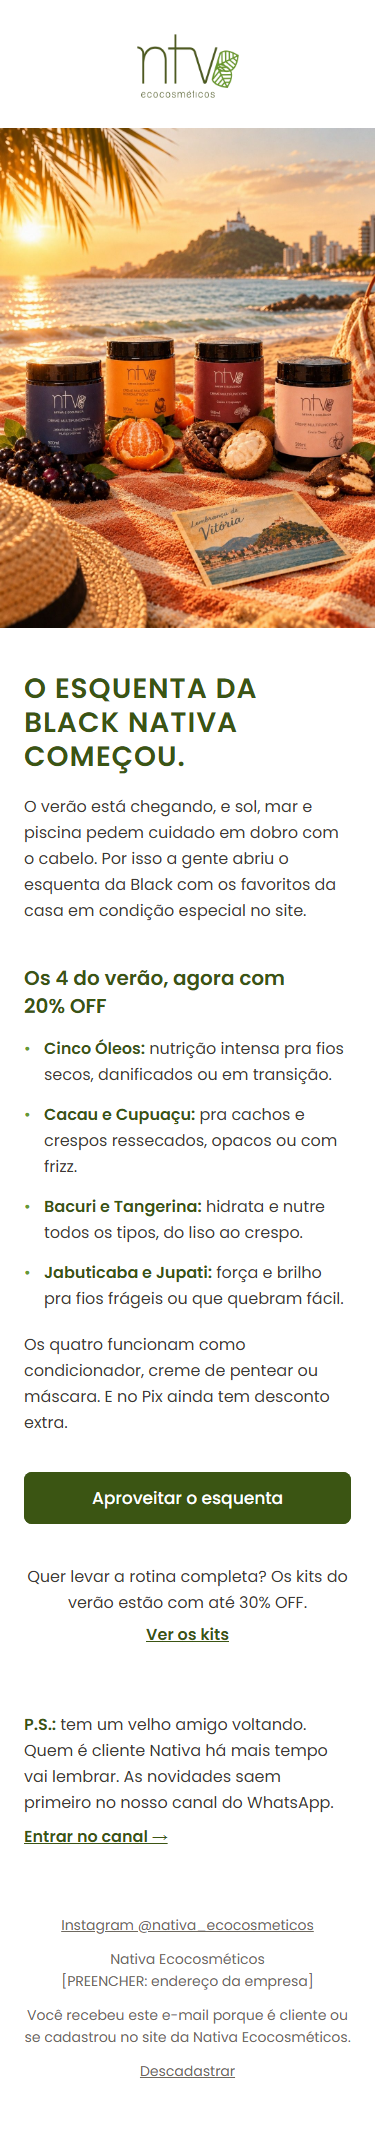
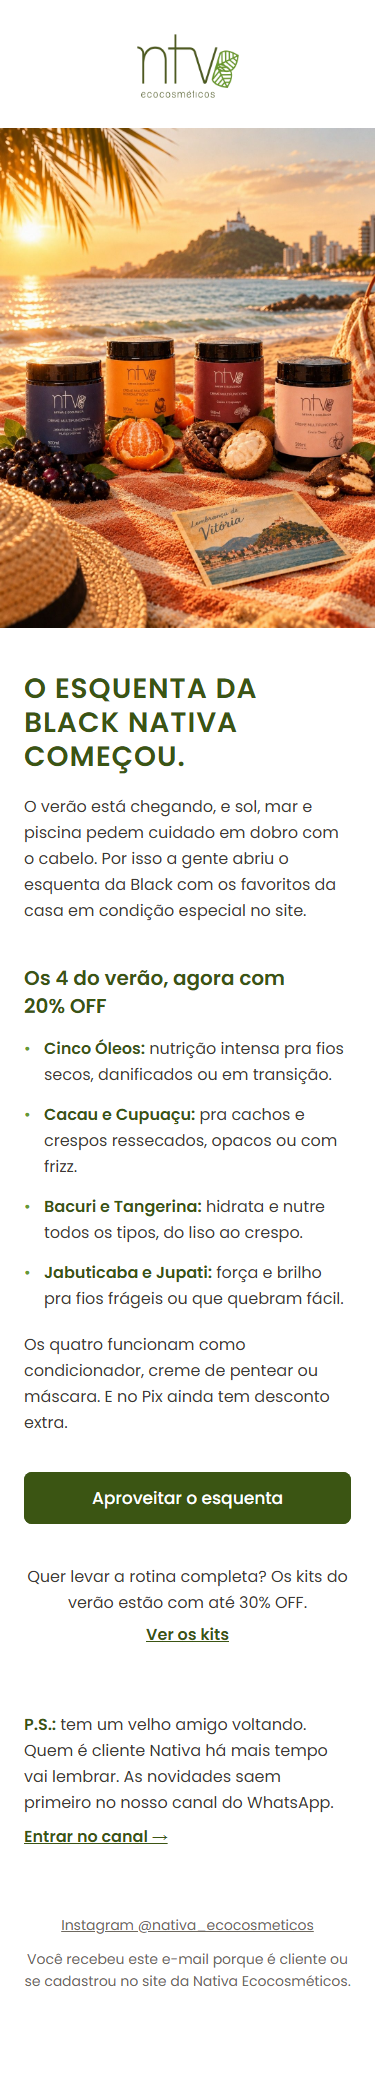
Repositório privado: URLs de imagem a preencher, link do canal do WhatsApp e rodapé sem descadastro/endereço (RD Station cuida)

diff --git a/email-esquenta-black.html b/email-esquenta-black.html
@@ -7,9 +7,8 @@
   Pré-cabeçalho: Os Cremes Multifuncionais com 20% OFF e kits com até 30% OFF no site.
 
   ANTES DE DISPARAR, PREENCHER (busque por "PREENCHER"):
-  1. PREENCHER_LINK_CANAL_WHATSAPP  -> link do canal do WhatsApp (sem UTM)
-  2. PREENCHER_LINK_DESCADASTRO     -> variável/link de descadastro da RD Station
-  3. [PREENCHER: endereço da empresa] -> endereço no rodapé
+  1. PREENCHER_URL_LOGO              -> URL pública de images/logo-nativa.png (suba no gerenciador de imagens da RD Station)
+  2. PREENCHER_URL_IMAGEM_PRINCIPAL  -> URL pública de images/esquenta-black-cremes-multifuncionais.jpg
 -->
 <meta charset="UTF-8">
 <meta name="viewport" content="width=device-width, initial-scale=1.0">
@@ -98,7 +97,7 @@
         <tr>
           <td align="center" style="padding:20px 24px 16px 24px;">
             <a href="https://www.nativaecocosmeticos.com.br/?utm_source=email&amp;utm_medium=crm&amp;utm_campaign=esquenta_black_2026&amp;utm_content=logo" target="_blank" style="text-decoration:none;">
-              <img src="https://bonnytrashy.github.io/EMAILSNATIVABLACKB2C/images/logo-nativa.png" width="130" height="92" alt="Nativa Ecocosméticos" style="display:block; width:130px; height:auto; border:0;">
+              <img src="PREENCHER_URL_LOGO" width="130" height="92" alt="Nativa Ecocosméticos" style="display:block; width:130px; height:auto; border:0;">
             </a>
           </td>
         </tr>
@@ -107,7 +106,7 @@
         <tr>
           <td style="padding:0;">
             <a href="https://www.nativaecocosmeticos.com.br/?utm_source=email&amp;utm_medium=crm&amp;utm_campaign=esquenta_black_2026&amp;utm_content=imagem_principal" target="_blank" style="text-decoration:none;">
-              <img class="hero" src="https://bonnytrashy.github.io/EMAILSNATIVABLACKB2C/images/esquenta-black-cremes-multifuncionais.jpg" width="600" height="800" alt="Os quatro Cremes Multifuncionais Nativa numa toalha de praia ao pôr do sol em Vitória" style="display:block; width:100%; max-width:600px; height:auto; border:0; background-color:#F3E3CC; color:#3B5513; font-family:'Poppins', Arial, sans-serif; font-size:16px; line-height:24px;">
+              <img class="hero" src="PREENCHER_URL_IMAGEM_PRINCIPAL" width="600" height="800" alt="Os quatro Cremes Multifuncionais Nativa numa toalha de praia ao pôr do sol em Vitória" style="display:block; width:100%; max-width:600px; height:auto; border:0; background-color:#F3E3CC; color:#3B5513; font-family:'Poppins', Arial, sans-serif; font-size:16px; line-height:24px;">
             </a>
           </td>
         </tr>
@@ -193,7 +192,7 @@
         <tr>
           <td class="px txt" style="padding:64px 48px 0 48px; font-family:'Poppins', Arial, sans-serif; font-size:16px; line-height:26px; color:#3D3A35; mso-line-height-rule:exactly;">
             <p style="margin:0;"><strong style="color:#3B5513; font-weight:600;">P.S.:</strong> tem um velho amigo voltando. Quem é cliente Nativa há mais tempo vai lembrar. As novidades saem primeiro no nosso canal do WhatsApp.</p>
-            <p style="margin:8px 0 0 0;"><a class="lnk" href="PREENCHER_LINK_CANAL_WHATSAPP" target="_blank" style="color:#3B5513; font-weight:600; text-decoration:underline;">Entrar no canal &rarr;</a></p>
+            <p style="margin:8px 0 0 0;"><a class="lnk" href="https://whatsapp.com/channel/0029Va6BviCLtOjLZZAwbs3I" target="_blank" style="color:#3B5513; font-weight:600; text-decoration:underline;">Entrar no canal &rarr;</a></p>
           </td>
         </tr>
 
@@ -201,9 +200,7 @@
         <tr>
           <td class="px foot" align="center" style="padding:64px 48px 40px 48px; font-family:'Poppins', Arial, sans-serif; font-size:13px; line-height:21px; color:#6E695F; text-align:center; mso-line-height-rule:exactly;">
             <p style="margin:0 0 12px 0;"><a href="https://www.instagram.com/nativa_ecocosmeticos" target="_blank" style="color:#6E695F; text-decoration:underline;">Instagram @nativa_ecocosmeticos</a></p>
-            <p style="margin:0 0 12px 0;">Nativa Ecocosméticos<br>[PREENCHER: endereço da empresa]</p>
-            <p style="margin:0 0 12px 0;">Você recebeu este e-mail porque é cliente ou se cadastrou no site da Nativa Ecocosméticos.</p>
-            <p style="margin:0;"><a href="PREENCHER_LINK_DESCADASTRO" target="_blank" style="color:#6E695F; text-decoration:underline;">Descadastrar</a></p>
+            <p style="margin:0;">Você recebeu este e-mail porque é cliente ou se cadastrou no site da Nativa Ecocosméticos.</p>
           </td>
         </tr>
 

diff --git a/preview.html b/preview.html
@@ -28,7 +28,8 @@
     fetch('email-esquenta-black.html')
       .then(function (r) { return r.text(); })
       .then(function (html) {
-        html = html.replace(/https:\/\/bonnytrashy\.github\.io\/EMAILSNATIVABLACKB2C\//g, '');
+        html = html.replace('PREENCHER_URL_LOGO', 'images/logo-nativa.png')
+                   .replace('PREENCHER_URL_IMAGEM_PRINCIPAL', 'images/esquenta-black-cremes-multifuncionais.jpg');
         document.querySelectorAll('iframe').forEach(function (f) { f.srcdoc = html; });
       });
   </script>

diff --git a/README.md b/README.md
@@ -13,12 +13,10 @@ E-mail de abertura do Esquenta da Black Nativa, da Nativa Ecocosméticos.
 | `images/logo-nativa.png` | Logo com fundo branco embutido (continua legível no modo escuro) |
 | `images/esquenta-black-cremes-multifuncionais.jpg` | Imagem principal (1086 x 1448, exibida a 600 px) |
 
-As imagens são servidas pelo GitHub Pages:
+Este repositório é privado, então as imagens não podem ser servidas daqui. Suba as duas imagens de `images/`
+no gerenciador de imagens da RD Station e cole as URLs geradas no HTML (veja a lista abaixo).
 
-- https://bonnytrashy.github.io/EMAILSNATIVABLACKB2C/images/logo-nativa.png
-- https://bonnytrashy.github.io/EMAILSNATIVABLACKB2C/images/esquenta-black-cremes-multifuncionais.jpg
-
-Prévia online: https://bonnytrashy.github.io/EMAILSNATIVABLACKB2C/preview.html
+Para ver a prévia localmente, rode um servidor na pasta (por exemplo `python -m http.server`) e abra `preview.html`.
 
 ## Assunto e pré-cabeçalho
 
@@ -30,11 +28,12 @@ Prévia online: https://bonnytrashy.github.io/EMAILSNATIVABLACKB2C/preview.html
 
 ## Antes de disparar, preencher
 
-Busque por `PREENCHER` no HTML e no TXT:
+Busque por `PREENCHER` no HTML:
 
-1. `PREENCHER_LINK_CANAL_WHATSAPP`: link do canal do WhatsApp (sem UTM)
-2. `PREENCHER_LINK_DESCADASTRO`: link ou variável de descadastro da RD Station
-3. `[PREENCHER: endereço da empresa]`: endereço no rodapé
+1. `PREENCHER_URL_LOGO`: URL pública de `images/logo-nativa.png`
+2. `PREENCHER_URL_IMAGEM_PRINCIPAL`: URL pública de `images/esquenta-black-cremes-multifuncionais.jpg`
+
+Descadastro e endereço ficam a cargo do rodapé automático da RD Station.
 
 ## UTMs
 
